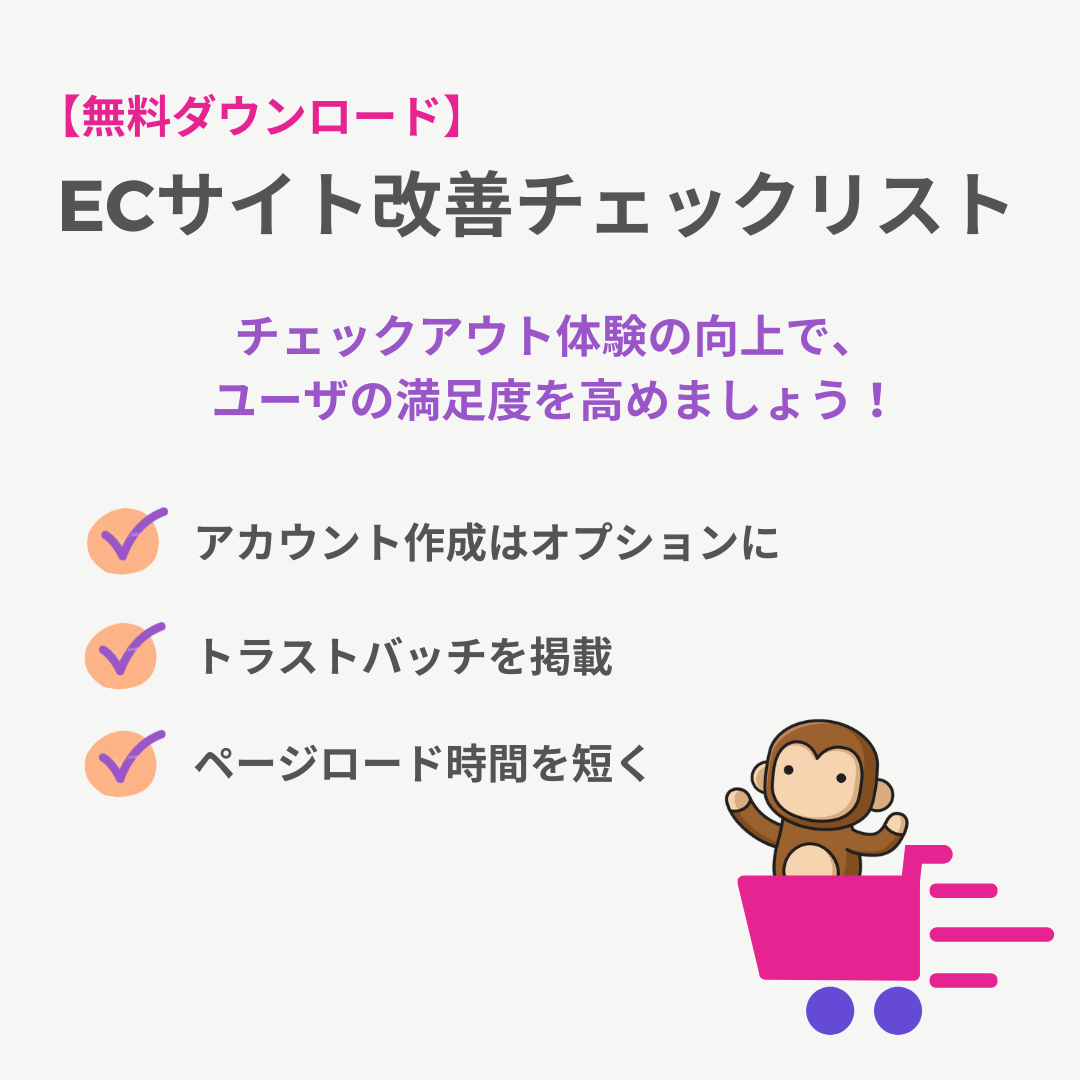
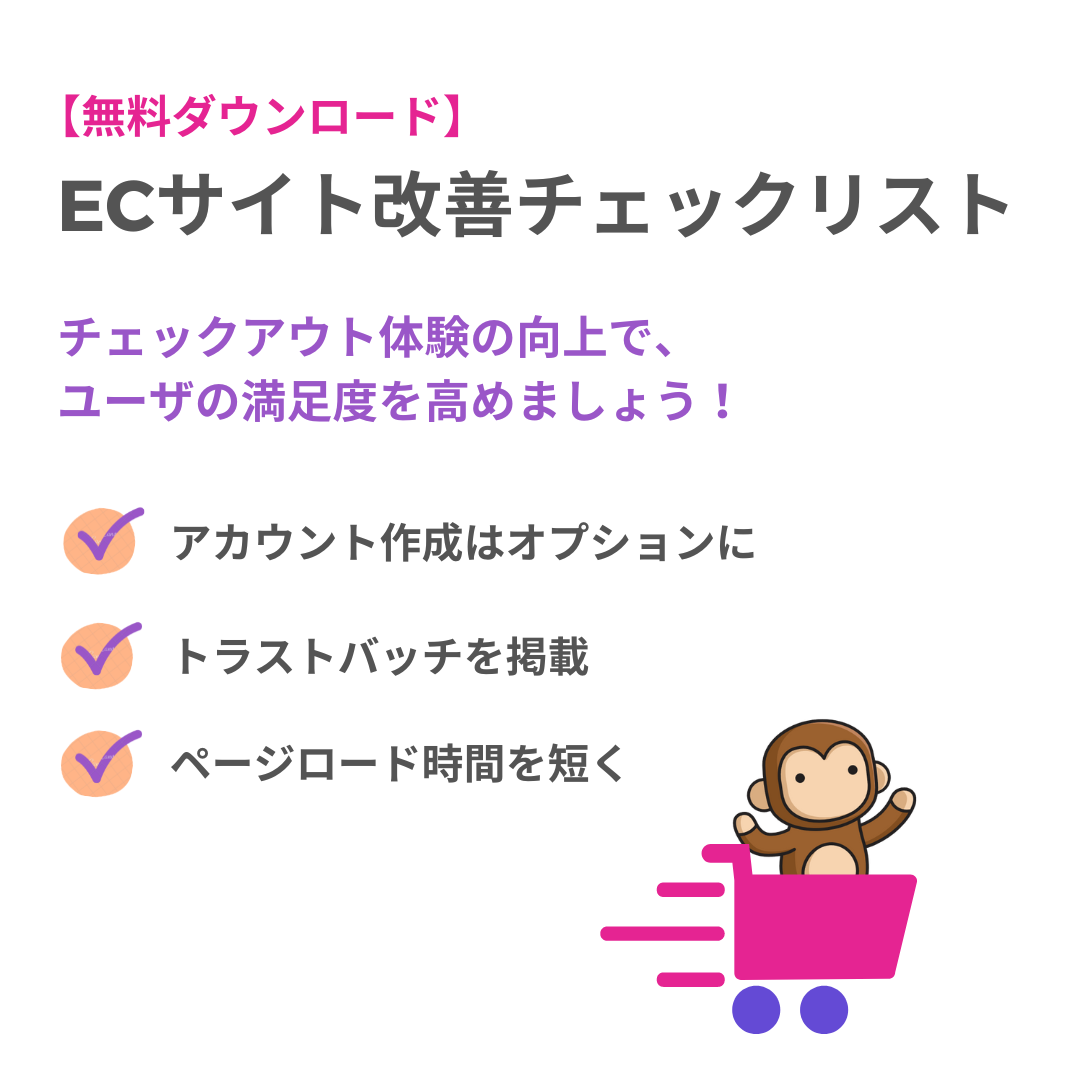
renewed the hero

diff --git a/components/content/Promotion/ChecklistHero.vue b/components/content/Promotion/ChecklistHero.vue
@@ -1,18 +1,20 @@
 <template>
   <section class="bg-white py-10 lg:py-14">
-    <div class="text-center container">
-      <div>
-        <span class="text-primary-600 font-bold"><ContentSlot :use="$slots.subtext" unwrap="p" /></span>
-        <h1 class="title1 mt-5">
-          <ContentSlot :use="$slots.title" unwrap="p" />
-        </h1>
+    <div class="text-center container md:(grid grid-cols-2 items-center justify-around gap-3)">
+      <div class="max-w-[500px] mx-auto">
+        <nuxt-img src="/promotion/checklist.png" class="mb-8" />
       </div>
-      <div class="bg-primary-100 rounded-lg max-w-[1050px] mx-auto p-5 lg:p-10 mt-15 md:(flex items-center justify-around gap-3)">
-        <nuxt-img src="/promotion/checklist.png" class="w-70 h-70 mx-auto lg:m-0 lg:(w-90 h-90)" />
+      <div class="rounded-lg max-w-[1050px] mx-auto p-5 lg:p-10">
         <div>
-          <h2 class="title3 my-10">
+          <!-- <h2 class="title3 my-10">
             <ContentSlot :use="$slots.formTitle" unwrap="p" />
-          </h2>
+          </h2> -->
+          <div class="md:text-left">
+            <span class="text-primary-600 font-bold"><ContentSlot :use="$slots.subtext" unwrap="p" /></span>
+            <h1 class="title1 mt-5 mb-8">
+              <ContentSlot :use="$slots.title" unwrap="p" />
+            </h1>
+          </div>
           <div id="form">
             <Loading class="w-20 h-5 mx-auto" :is-full-page="false" />
           </div>
@@ -41,3 +43,9 @@ useScriptTag(
     })
   })
 </script>
+
+<style>
+input.hs-button.primary.large {
+  width: 100%;
+}
+</style>

diff --git a/content/ja/cro-checklist-campaign.md b/content/ja/cro-checklist-campaign.md
@@ -7,8 +7,6 @@ title: ページを見直し、CVRを大幅改善
 ECサイトのチェックアウト体験を向上          
 #title
 ページを見直し<br>CVRを大幅改善
-#formTitle
-無料でチェックリストを<br>ダウンロード！
 ::
 
 ::smooth-checkout
